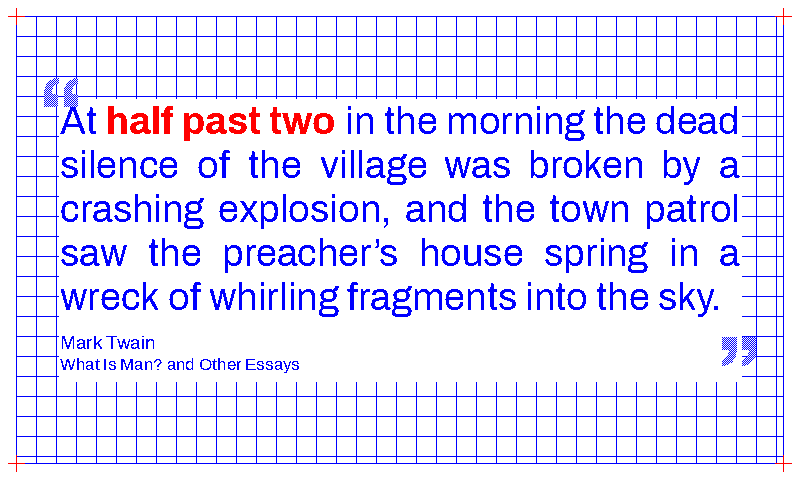
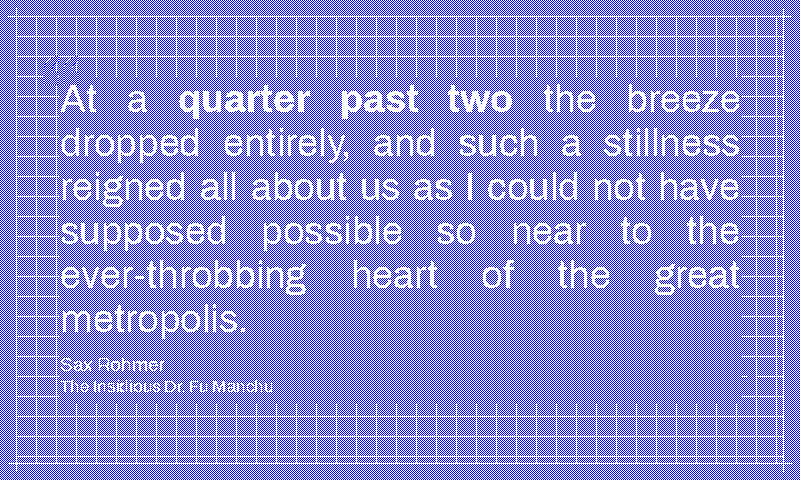
Flip blueprint to cyanotype: white-on-blue with 50/50 dithered ground
The blueprint theme's blue-on-white drafting palette read as a
generic scholar / textbook layout — the Archivo geometric sans
distinguished it from scholar but the palette polarity didn't say
"blueprint" on its own. Flip to authentic cyanotype: blue page
ground, white ink for every mark (body text, outer frame, grid,
corner registration crosshairs), no chromatic accent. The matched
time phrase differentiates by bold weight, same pattern as
newsprint. Add a 50/50 white-on-blue checkerboard as Layer 0 of
draw_blueprint_border so the saturated blue softens into a paler
cyanotype wash (same trick atomic uses for its green ground).

display_inky.THEME_SATURATION moves blueprint from 0.5 (light-ground
tier) to 0.7 (coloured-ground tier) so the white marks stay crisp
against the panel's anchored blue.

Updated palette / crosshair / frame / grid assertions in the
blueprint test class to match the inverted colours. Dropped
blueprint from test_newsprint_border_is_theme_gated because the
dither paints sparse white pixels across the blue ground (same
reason newsprint is excluded from the blueprint/comic gating tests).
Regenerated the blueprint golden and README preview.

https://claude.ai/code/session_01GUDzVT7kFuEAMTLgEcieqM

diff --git a/tests/test_render_quote.py b/tests/test_render_quote.py
@@ -615,14 +615,17 @@ class TestThemes:
         assert t["text"] == rq.SPECTRA6["green"]
         assert t["accent"] == rq.SPECTRA6["yellow"]
 
-    def test_blueprint_theme_uses_blue_on_white_with_red_accent(self):
-        """Same palette as ``scholar`` — the two stay differentiated purely
-        via THEME_FONTS (Archivo vs Bitter). Pin the palette so a refactor
-        doesn't accidentally merge them back into a single theme."""
+    def test_blueprint_theme_uses_white_on_blue_cyanotype_palette(self):
+        """Cyanotype blueprint: blue ground, white ink for every mark, no
+        chromatic accent (matched phrase differentiates by bold weight,
+        same pattern as ``newsprint``). Pin the inverted palette so a
+        regression that flipped it back to white/blue/red would collapse
+        the theme into a Scholar-adjacent layout and lose the
+        photochemical-drafting-sheet identity."""
         t = rq.THEMES["blueprint"]
-        assert t["page_bg"] == rq.SPECTRA6["white"]
-        assert t["text"] == rq.SPECTRA6["blue"]
-        assert t["accent"] == rq.SPECTRA6["red"]
+        assert t["page_bg"] == rq.SPECTRA6["blue"]
+        assert t["text"] == rq.SPECTRA6["white"]
+        assert t["accent"] == rq.SPECTRA6["white"]
 
     def test_illuminated_theme_uses_rubricated_red_body(self):
         """Red body text is unique to ``illuminated`` across the rotation;
@@ -1012,8 +1015,11 @@ class TestNewsprintBorder:
         """Sample (400, 11) — mid-thick-band — against themes whose
         page_bg is not black (so the page_bg check is meaningful). Dark
         and nightvision share page_bg=black and would pass even if
-        this theme painted black there, so they're excluded."""
-        for theme in ("default", "scholar", "blueprint", "risograph", "comic"):
+        this theme painted black there, so they're excluded. Blueprint
+        is excluded because its Layer 0 dither paints sparse white pixels
+        across the blue ground, same reason newsprint is excluded from
+        the blueprint / comic gating tests."""
+        for theme in ("default", "scholar", "risograph", "comic"):
             img = rq.render("03:00", self._row(), 800, 480, mode="production", theme=theme)
             expected_bg = rq.THEMES[theme]["page_bg"]
             assert img.getpixel((400, 11)) == expected_bg, (
@@ -1122,13 +1128,13 @@ class TestNightvisionBorder:
 
 
 class TestBlueprintBorder:
-    """The blueprint theme paints a drafting-sheet border.
+    """The blueprint theme paints a cyanotype drafting sheet.
 
     Parallels ``TestBauhausBorder`` but locks the blueprint-specific
-    primitives: thin blue outer frame plus red crosshair registration
-    marks at each corner. A regression that dropped
-    ``draw_blueprint_border`` would pass every dict-level palette test
-    silently, so pin the painted pixels here.
+    primitives: 50/50 white-on-blue dithered ground, thin white outer
+    frame, and white crosshair registration marks at each corner. A
+    regression that dropped ``draw_blueprint_border`` would pass every
+    dict-level palette test silently, so pin the painted pixels here.
     """
 
     def _row(self):
@@ -1144,15 +1150,17 @@ class TestBlueprintBorder:
             "source_id": "141",
         }
 
-    def test_blueprint_corner_crosshairs_paint_accent_red(self):
+    def test_blueprint_corner_crosshairs_paint_accent_white(self):
         """Four crosshair "+" marks centred on the frame corners at
         ``(16, 16)`` / ``(783, 16)`` / ``(16, 463)`` / ``(783, 463)``.
-        The centre pixel is always on the mark; arm extents are ±8."""
+        The centre pixel is always on the mark; arm extents are ±8.
+        Cyanotype white-on-blue: marks paint in the accent colour
+        (white in production, same colour family as the body)."""
         img = rq.render("03:00", self._row(), 800, 480, mode="production", theme="blueprint")
-        assert img.getpixel((16, 16)) == rq.SPECTRA6["red"], "TL crosshair centre missing"
-        assert img.getpixel((783, 16)) == rq.SPECTRA6["red"], "TR crosshair centre missing"
-        assert img.getpixel((16, 463)) == rq.SPECTRA6["red"], "BL crosshair centre missing"
-        assert img.getpixel((783, 463)) == rq.SPECTRA6["red"], "BR crosshair centre missing"
+        assert img.getpixel((16, 16)) == rq.SPECTRA6["white"], "TL crosshair centre missing"
+        assert img.getpixel((783, 16)) == rq.SPECTRA6["white"], "TR crosshair centre missing"
+        assert img.getpixel((16, 463)) == rq.SPECTRA6["white"], "BL crosshair centre missing"
+        assert img.getpixel((783, 463)) == rq.SPECTRA6["white"], "BR crosshair centre missing"
 
     def test_blueprint_crosshair_arms_extend_both_directions(self):
         """Each crosshair has four 8px arms (left/right/up/down from
@@ -1160,20 +1168,21 @@ class TestBlueprintBorder:
         would pass the centre-pixel test but fail here."""
         img = rq.render("03:00", self._row(), 800, 480, mode="production", theme="blueprint")
         cx, cy = 16, 16
-        assert img.getpixel((cx - 6, cy)) == rq.SPECTRA6["red"], "TL left arm missing"
-        assert img.getpixel((cx + 6, cy)) == rq.SPECTRA6["red"], "TL right arm missing"
-        assert img.getpixel((cx, cy - 6)) == rq.SPECTRA6["red"], "TL up arm missing"
-        assert img.getpixel((cx, cy + 6)) == rq.SPECTRA6["red"], "TL down arm missing"
+        assert img.getpixel((cx - 6, cy)) == rq.SPECTRA6["white"], "TL left arm missing"
+        assert img.getpixel((cx + 6, cy)) == rq.SPECTRA6["white"], "TL right arm missing"
+        assert img.getpixel((cx, cy - 6)) == rq.SPECTRA6["white"], "TL up arm missing"
+        assert img.getpixel((cx, cy + 6)) == rq.SPECTRA6["white"], "TL down arm missing"
 
-    def test_blueprint_outer_frame_is_painted_in_body_blue(self):
+    def test_blueprint_outer_frame_is_painted_in_body_white(self):
         """The outer rectangle outline is the structural anchor for the
         crosshairs. Sample a point on each side well clear of the
-        corners, to verify all four sides of the frame rendered."""
+        corners, to verify all four sides of the frame rendered. Frame
+        is the body-text colour (white, cyanotype ink)."""
         img = rq.render("03:00", self._row(), 800, 480, mode="production", theme="blueprint")
-        assert img.getpixel((400, 16)) == rq.SPECTRA6["blue"], "top frame line missing"
-        assert img.getpixel((400, 463)) == rq.SPECTRA6["blue"], "bottom frame line missing"
-        assert img.getpixel((16, 240)) == rq.SPECTRA6["blue"], "left frame line missing"
-        assert img.getpixel((783, 240)) == rq.SPECTRA6["blue"], "right frame line missing"
+        assert img.getpixel((400, 16)) == rq.SPECTRA6["white"], "top frame line missing"
+        assert img.getpixel((400, 463)) == rq.SPECTRA6["white"], "bottom frame line missing"
+        assert img.getpixel((16, 240)) == rq.SPECTRA6["white"], "left frame line missing"
+        assert img.getpixel((783, 240)) == rq.SPECTRA6["white"], "right frame line missing"
 
     def test_blueprint_border_is_theme_gated(self):
         """Border is gated on theme == 'blueprint'; no other theme (including
@@ -1194,7 +1203,7 @@ class TestBlueprintBorder:
         it must show up regardless of render mode."""
         for mode in ("production", "debug", "card"):
             img = rq.render("03:00", self._row(), 800, 480, mode=mode, theme="blueprint")
-            assert img.getpixel((16, 16)) == rq.SPECTRA6["red"], f"blueprint mode={mode} missing TL crosshair"
+            assert img.getpixel((16, 16)) == rq.SPECTRA6["white"], f"blueprint mode={mode} missing TL crosshair"
 
     def test_blueprint_border_uses_theme_colours_not_hardcoded_rgb(self):
         """``draw_blueprint_border`` must pull its colours from the passed-in
@@ -1210,24 +1219,26 @@ class TestBlueprintBorder:
         assert image.getpixel((16, 16)) == rq.SPECTRA6["yellow"], "crosshair should use accent"
         assert image.getpixel((400, 16)) == rq.SPECTRA6["green"], "frame should use text colour"
 
-    def test_blueprint_interior_grid_paints_in_body_blue(self):
+    def test_blueprint_interior_grid_paints_in_body_text_colour(self):
         """The graph-paper grid inside the frame uses the body-text colour.
         Sample an intersection well clear of the frame and of the quote
         block so no glyph or outer rule is painted on top. At 20px spacing,
         with ``frame_inset=16``, the first interior horizontal rule is at
         y=36 and the first interior vertical rule is at x=36; (36, 56) is
-        a clean grid crossing."""
+        a clean grid crossing. Direct-call (no ``page_bg`` in palette →
+        Layer 0 dither is skipped) so the off-grid pixel stays the
+        white canvas the test prepared."""
         image = Image.new("RGB", (800, 480), color=(255, 255, 255))
-        rq.draw_blueprint_border(image, {"text": rq.SPECTRA6["blue"], "accent": rq.SPECTRA6["red"]})
-        assert image.getpixel((36, 56)) == rq.SPECTRA6["blue"], "grid intersection should use text colour"
+        rq.draw_blueprint_border(image, {"text": rq.SPECTRA6["green"], "accent": rq.SPECTRA6["red"]})
+        assert image.getpixel((36, 56)) == rq.SPECTRA6["green"], "grid intersection should use text colour"
         # Off-grid whitespace between rules stays page_bg (white canvas here).
         assert image.getpixel((45, 45)) == (255, 255, 255), "between-grid pixel should remain unpainted"
 
     def test_blueprint_grid_is_theme_gated(self):
-        """No other theme paints a blue pixel at the blueprint grid-intersection
-        coordinate (36, 56) — it should show that theme's page_bg. Newsprint
-        is excluded because its Layer 0 halftone intentionally paints sparse
-        black flecks across the white ground, same as alchemy."""
+        """No other theme paints a non-page_bg pixel at the blueprint
+        grid-intersection coordinate (36, 56). Newsprint is excluded because
+        its Layer 0 halftone intentionally paints sparse black flecks across
+        the white ground, same as alchemy."""
         row = self._row()
         for theme in ("default", "dark", "scholar", "nightvision",
                       "illuminated", "bauhaus", "risograph", "comic"):

diff --git a/render_quote.py b/render_quote.py
@@ -112,20 +112,28 @@ THEMES = {
         "ornament_light": SPECTRA6["green"],
         "source": SPECTRA6["green"],
     },
-    # Drafting / engineering blueprint. White paper, blue ink for the body
-    # text and ornaments, red for the matched time phrase (the "dimension
-    # mark" pulled out of the drawing). Sits visually distinct from
-    # ``scholar`` (also white/blue/red) thanks to the geometric Archivo
-    # sans-serif chosen in THEME_FONTS — same palette, different family.
+    # Cyanotype blueprint. Blue paper, white ink for every mark — the
+    # body text, the outer frame, the corner registration crosshairs,
+    # and the graph-paper grid — matching the authentic white-on-blue
+    # look of a photochemical drafting sheet. The blue ground is softened
+    # by a 50/50 white/blue checkerboard painted in
+    # ``draw_blueprint_border``'s Layer 0 so the page reads as a paler
+    # cyanotype wash rather than the panel's flat saturated blue. No
+    # chromatic accent — the matched time phrase differentiates by bold
+    # weight (same pattern as ``newsprint``), staying true to the
+    # single-ink character of the cyanotype process. Sits visually
+    # distinct from ``scholar`` (white/blue/red) thanks to the
+    # inverted ground plus the geometric Archivo sans-serif in
+    # THEME_FONTS — different palette polarity, different family.
     "blueprint": {
-        "page_bg": SPECTRA6["white"],
-        "text": SPECTRA6["blue"],
-        "subtle": SPECTRA6["blue"],
-        "faint": SPECTRA6["blue"],
-        "accent": SPECTRA6["red"],
-        "ornament_dark": SPECTRA6["blue"],
-        "ornament_light": SPECTRA6["white"],
-        "source": SPECTRA6["blue"],
+        "page_bg": SPECTRA6["blue"],
+        "text": SPECTRA6["white"],
+        "subtle": SPECTRA6["white"],
+        "faint": SPECTRA6["white"],
+        "accent": SPECTRA6["white"],
+        "ornament_dark": SPECTRA6["white"],
+        "ornament_light": SPECTRA6["blue"],
+        "source": SPECTRA6["white"],
     },
     # Medieval illuminated manuscript. White vellum, red body text
     # (rubrication, the traditional mark of a liturgical or emphasised
@@ -1669,23 +1677,49 @@ def draw_scholar_border(image: Image.Image, colors: dict) -> None:
 
 
 def draw_blueprint_border(image: Image.Image, colors: dict, clear_rect: tuple[int, int, int, int] | None = None) -> None:
-    """Paint a drafting-sheet border and graph-paper grid over the canvas.
+    """Paint a cyanotype drafting sheet: dithered ground + frame + grid + crosshairs.
 
-    A thin outer rectangle in the body-text blue plus four small red
-    crosshair "registration marks" centred on the frame corners — the
-    print-alignment tick used on engineering drawings and blueprints —
-    with a thin blue graph-paper grid inside the frame so the ground
-    reads as engineering paper rather than an empty sheet. When
-    ``clear_rect`` is provided, the grid skips that quote-sized window so
-    the text block gets a calmer field without losing the drafting-sheet
-    frame and corner marks.
+    Four layers:
+
+    * **Layer 0 — 50/50 white-on-blue checkerboard ground.** Every
+      pixel matching ``page_bg`` is replaced with white on one half of
+      a single-pixel checkerboard, leaving the other half as the
+      Spectra-6 saturated blue. At panel viewing distance the eye
+      averages the alternation into a paler cyanotype wash, softening
+      the panel's vivid blue into something closer to a real
+      photochemical print. Painted at the very start of the painter so
+      the frame / grid / crosshairs below overpaint the dithered ground
+      cleanly. Skipped when ``page_bg`` is absent from the palette so
+      direct-call test paths stay valid. Same trick the ``atomic`` theme
+      uses for its green ground.
+    * **Outer frame** in the body-text colour (white in production).
+    * **Graph-paper grid** at 20px spacing inside the frame so the
+      ground reads as engineering paper rather than an empty sheet.
+      When ``clear_rect`` is provided, the grid skips that quote-sized
+      window so the text block gets a calmer field without losing the
+      drafting-sheet frame and corner marks.
+    * **Corner registration crosshairs** in the accent colour — the
+      small print-alignment ticks used on engineering drawings.
     """
-    draw = ImageDraw.Draw(image)
     width, height = image.size
+    page_bg = colors.get("page_bg")
     frame_inset = 16
     frame_color = colors.get("subtle", colors["text"])
     border_color = colors["text"]
     mark_color = colors["accent"]
+
+    # Layer 0: 50/50 white-on-blue checkerboard. Only pixels matching
+    # the exact ``page_bg`` colour are affected — defence in depth if a
+    # future caller paints accents before this painter runs.
+    if page_bg is not None:
+        dither_light = SPECTRA6["white"]
+        pixels = image.load()
+        for y in range(height):
+            for x in range(width):
+                if (x + y) & 1 and pixels[x, y] == page_bg:
+                    pixels[x, y] = dither_light
+
+    draw = ImageDraw.Draw(image)
 
     grid_spacing = 20
     grid_left = frame_inset + 1

diff --git a/display_inky.py b/display_inky.py
@@ -31,11 +31,15 @@ THEME_SATURATION: dict[str, float] = {
     "scholar": 0.5,
     "newsprint": 0.5,
     "nightvision": 0.7,
+    # Cyanotype blueprint: blue ground (the only theme to claim Spectra 6's
+    # blue as a *page background*), white ink for every mark. Same coloured-
+    # ground tier as ``atomic`` / ``comic`` so the white-on-blue marks stay
+    # crisp against the panel's anchored blue.
+    "blueprint": 0.7,
     # Light white-background themes inherit the default 0.5 starting point —
     # same empirical tier as ``default`` / ``scholar`` / ``newsprint``. These
     # defaults are sensible initial values and are easy to override at runtime
     # via ``--saturation`` if real-panel calibration suggests otherwise.
-    "blueprint": 0.5,
     "illuminated": 0.5,
     "bauhaus": 0.5,
     # Black ground with a chromatic accent — same tier as ``dark`` /

diff --git a/README.md b/README.md
@@ -262,7 +262,7 @@ Eighteen themes ship built-in, all constrained to the Spectra 6 panel palette (w
 | `scholar`     | <img src="assets/previews/scholar.png" width="240" alt="scholar theme preview">         | white       | blue  | red    | Bitter (slab)        | Academic textbook             |
 | `newsprint`   | <img src="assets/previews/newsprint.png" width="240" alt="newsprint theme preview">     | white/black | black | (none) | Old Standard TT      | Bold-weight, no chroma        |
 | `nightvision` | <img src="assets/previews/nightvision.png" width="240" alt="nightvision theme preview"> | black       | green | yellow | Space Mono           | Retro terminal                |
-| `blueprint`   | <img src="assets/previews/blueprint.png" width="240" alt="blueprint theme preview">     | white       | blue  | red    | Archivo (sans)       | Drafting blueprint            |
+| `blueprint`   | <img src="assets/previews/blueprint.png" width="240" alt="blueprint theme preview">     | blue/white  | white | white  | Archivo (sans)       | Cyanotype drafting sheet      |
 | `illuminated` | <img src="assets/previews/illuminated.png" width="240" alt="illuminated theme preview"> | white       | red   | blue   | EB Garamond + UnifrakturMaguntia | Rubricated manuscript |
 | `gothic`      | <img src="assets/previews/gothic.png" width="240" alt="gothic theme preview">           | black       | white | red    | EB Garamond + UnifrakturMaguntia | Cathedral chronicle   |
 | `bauhaus`     | <img src="assets/previews/bauhaus.png" width="240" alt="bauhaus theme preview">         | white       | black | blue   | Jost (geometric sans) | Bauhaus poster               |
